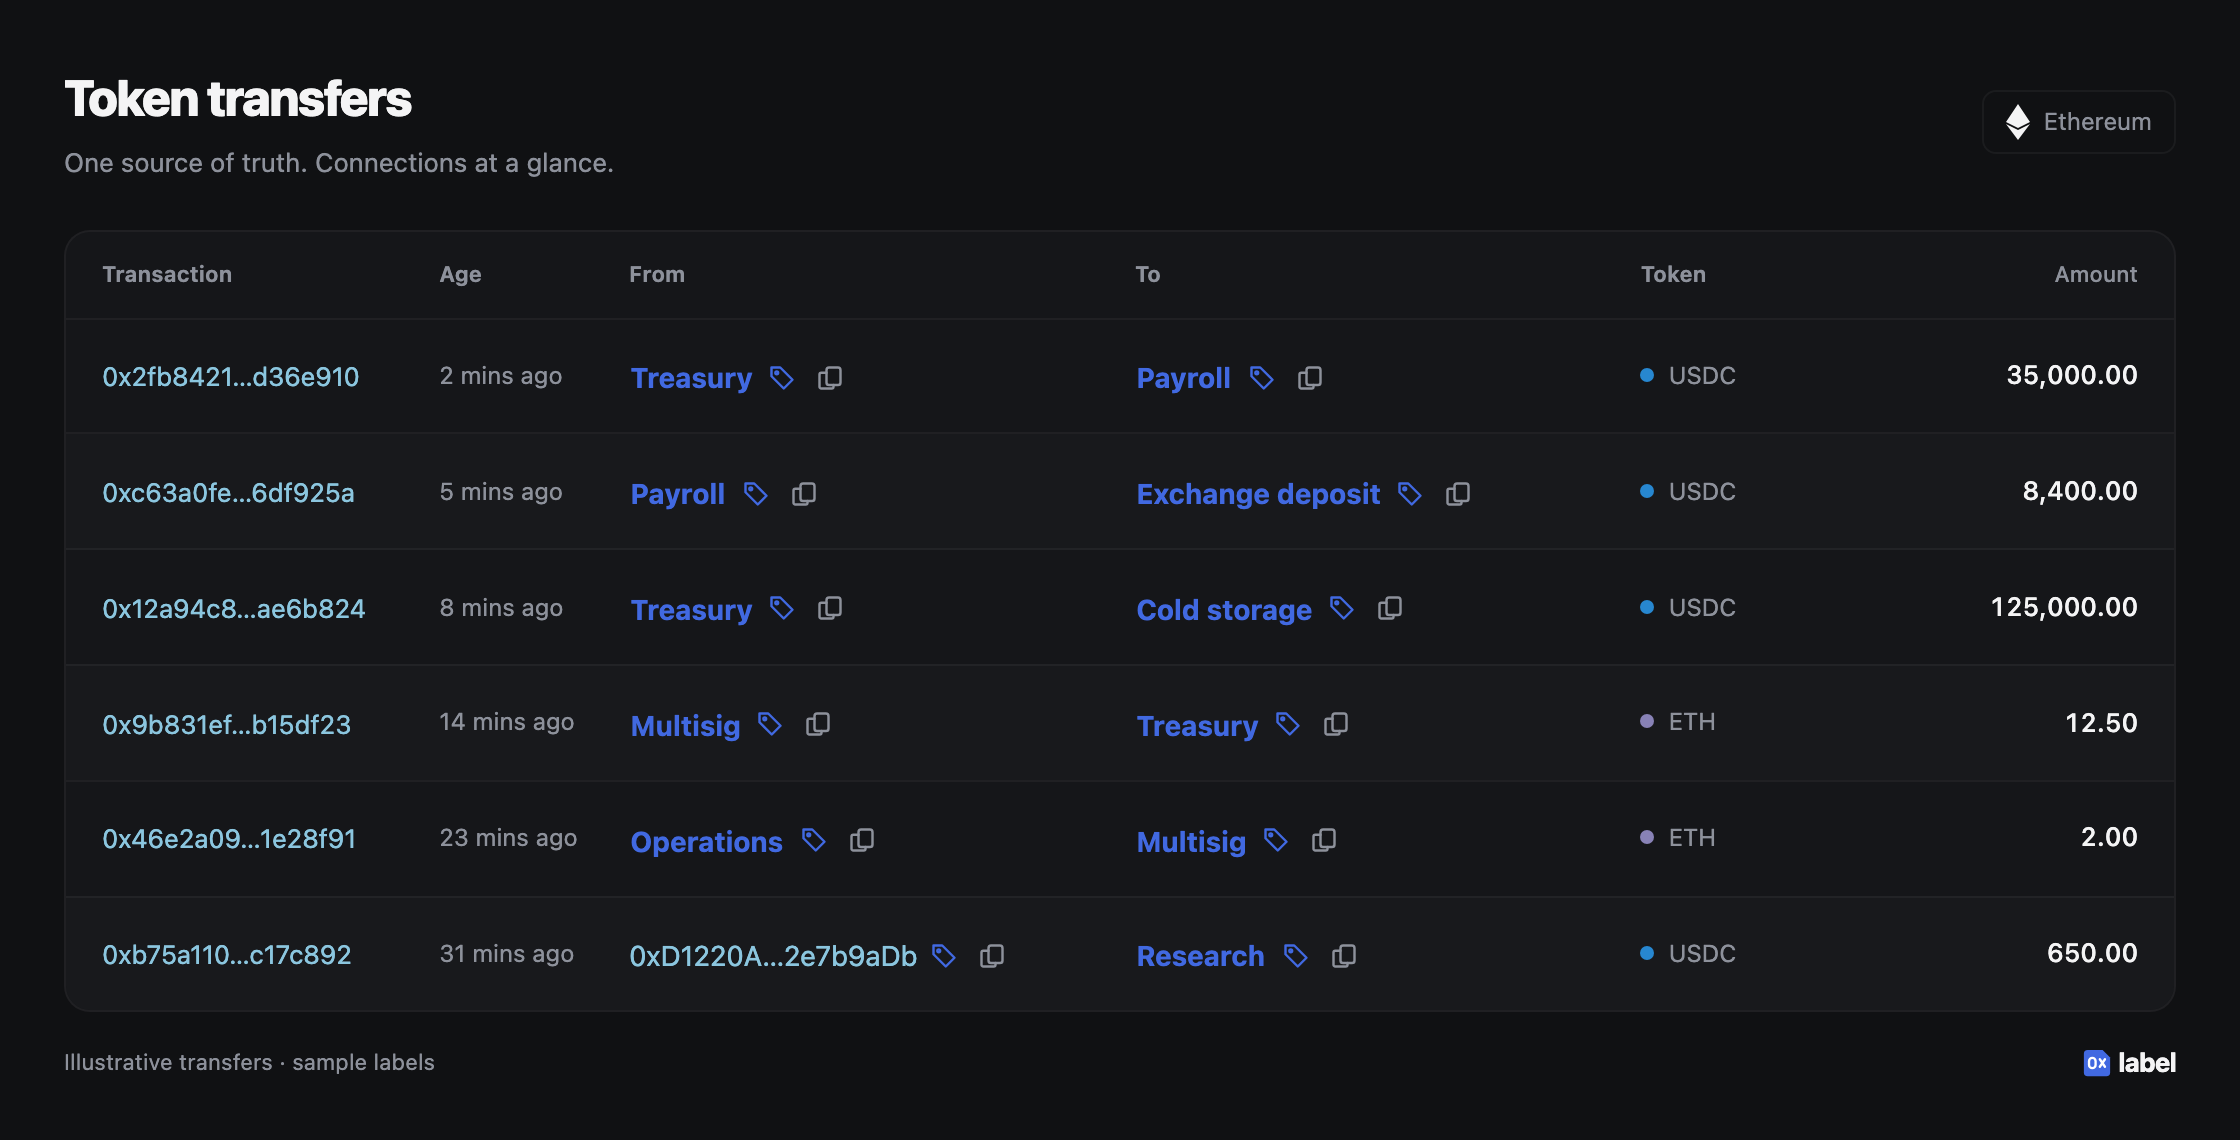
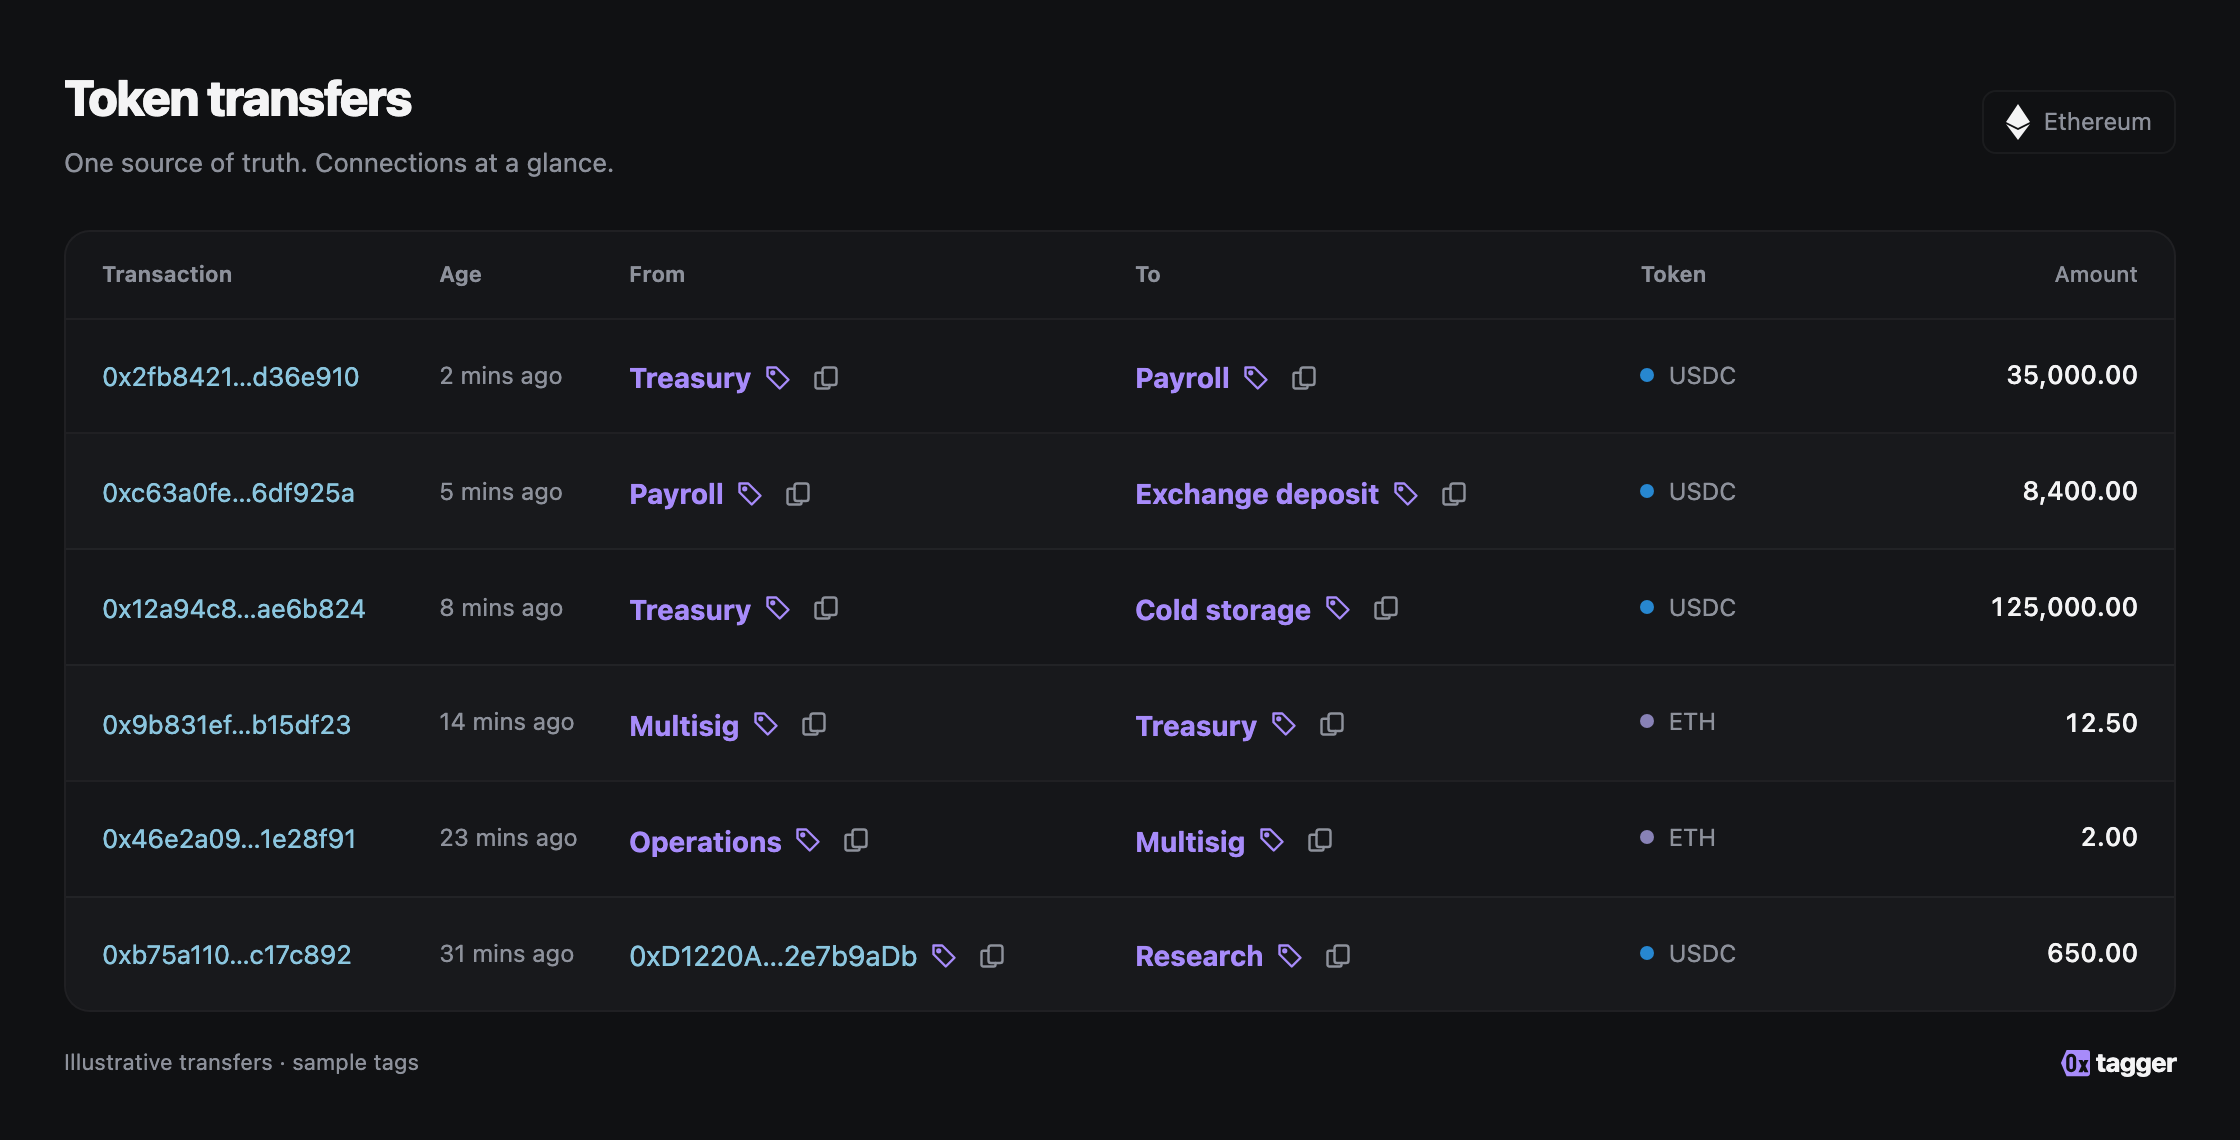
Rebuild the README images from the extension as it ships today
The screenshot spec was renamed with everything else but never run: it
is not part of `playwright test`, which reads tests/browser, so nothing
caught that the state it hands createPageController was two refactors
stale. connectionName became bookName and books when the editor learned
to name its book, so createEditor read state.books.length off undefined
and the editor never opened. Only the two table shots were being
written, from a run four commits back.

So the three images on the README front page still said 0x label in the
wordmark and sample labels in the footer, in the old blue. They now come
from the current extension: the tag mark, the current palette, and the
editor open on a tag.

While here, the last place where a variable called a tag a name: paint()
in page.js.

diff --git a/extension/page.js b/extension/page.js
@@ -142,19 +142,19 @@ export async function createPageController({
   function paint(target) {
     if (target.element.getAttribute(ADDRESS) !== target.address) target.element.setAttribute(ADDRESS, target.address);
     if (!target.editButton?.isConnected) addEditButton(target);
-    const name = target.naming !== false && !hiddenTags.has(recordKey(target.address, target.network)) &&
+    const tag = target.naming !== false && !hiddenTags.has(recordKey(target.address, target.network)) &&
       recordFor(target)?.tags[0];
     const shown = shownOn(target);
     if (shown !== target.element) { target.element.removeAttribute(TAG); target.element.removeAttribute(SHORT); }
-    if (name) {
+    if (tag) {
       // Preserve native nodes and copy sources; CSS substitutes only their
       // visible glyphs with the shared custom-tag typography.
-      if (shown.getAttribute(TAG) !== name) shown.setAttribute(TAG, name);
+      if (shown.getAttribute(TAG) !== tag) shown.setAttribute(TAG, tag);
       const trailer = adapter.subject && target.element.matches(adapter.subject)
         ? abbreviate(checksumAddress(target.address)) : null;
       if (trailer) { if (shown.getAttribute(SHORT) !== trailer) shown.setAttribute(SHORT, trailer); }
       else shown.removeAttribute(SHORT);
-      const description = `0xtagger: ${name}`;
+      const description = `0xtagger: ${tag}`;
       if (!target.element.hasAttribute('aria-description') || target.description === target.element.getAttribute('aria-description')) {
         if (target.element.getAttribute('aria-description') !== description) target.element.setAttribute('aria-description', description);
         target.description = description;

diff --git a/docs/demo/screenshots.spec.js b/docs/demo/screenshots.spec.js
@@ -15,7 +15,8 @@ test('render the README examples with the shipped extension and sample data', as
       const { createPageController } = await import('/extension/page.js');
       window.controller = await createPageController({
         url: () => new URL('https://etherscan.io/tokentxns'),
-        state: { connectionKey: 'http://127.0.0.1:8712', connectionName: 'Local', selectionGeneration: 1, stateRevision: 1, records: window.demoRecords },
+        state: { books: [{ id: 'book-1', name: 'Local', where: 'http://127.0.0.1:8712' }],
+          activeBook: 'book-1', bookName: 'Local', bookKind: 'server', stateRevision: 1, records: window.demoRecords },
         save: () => { throw new Error('Screenshots never save tags.'); },
       });
     });
